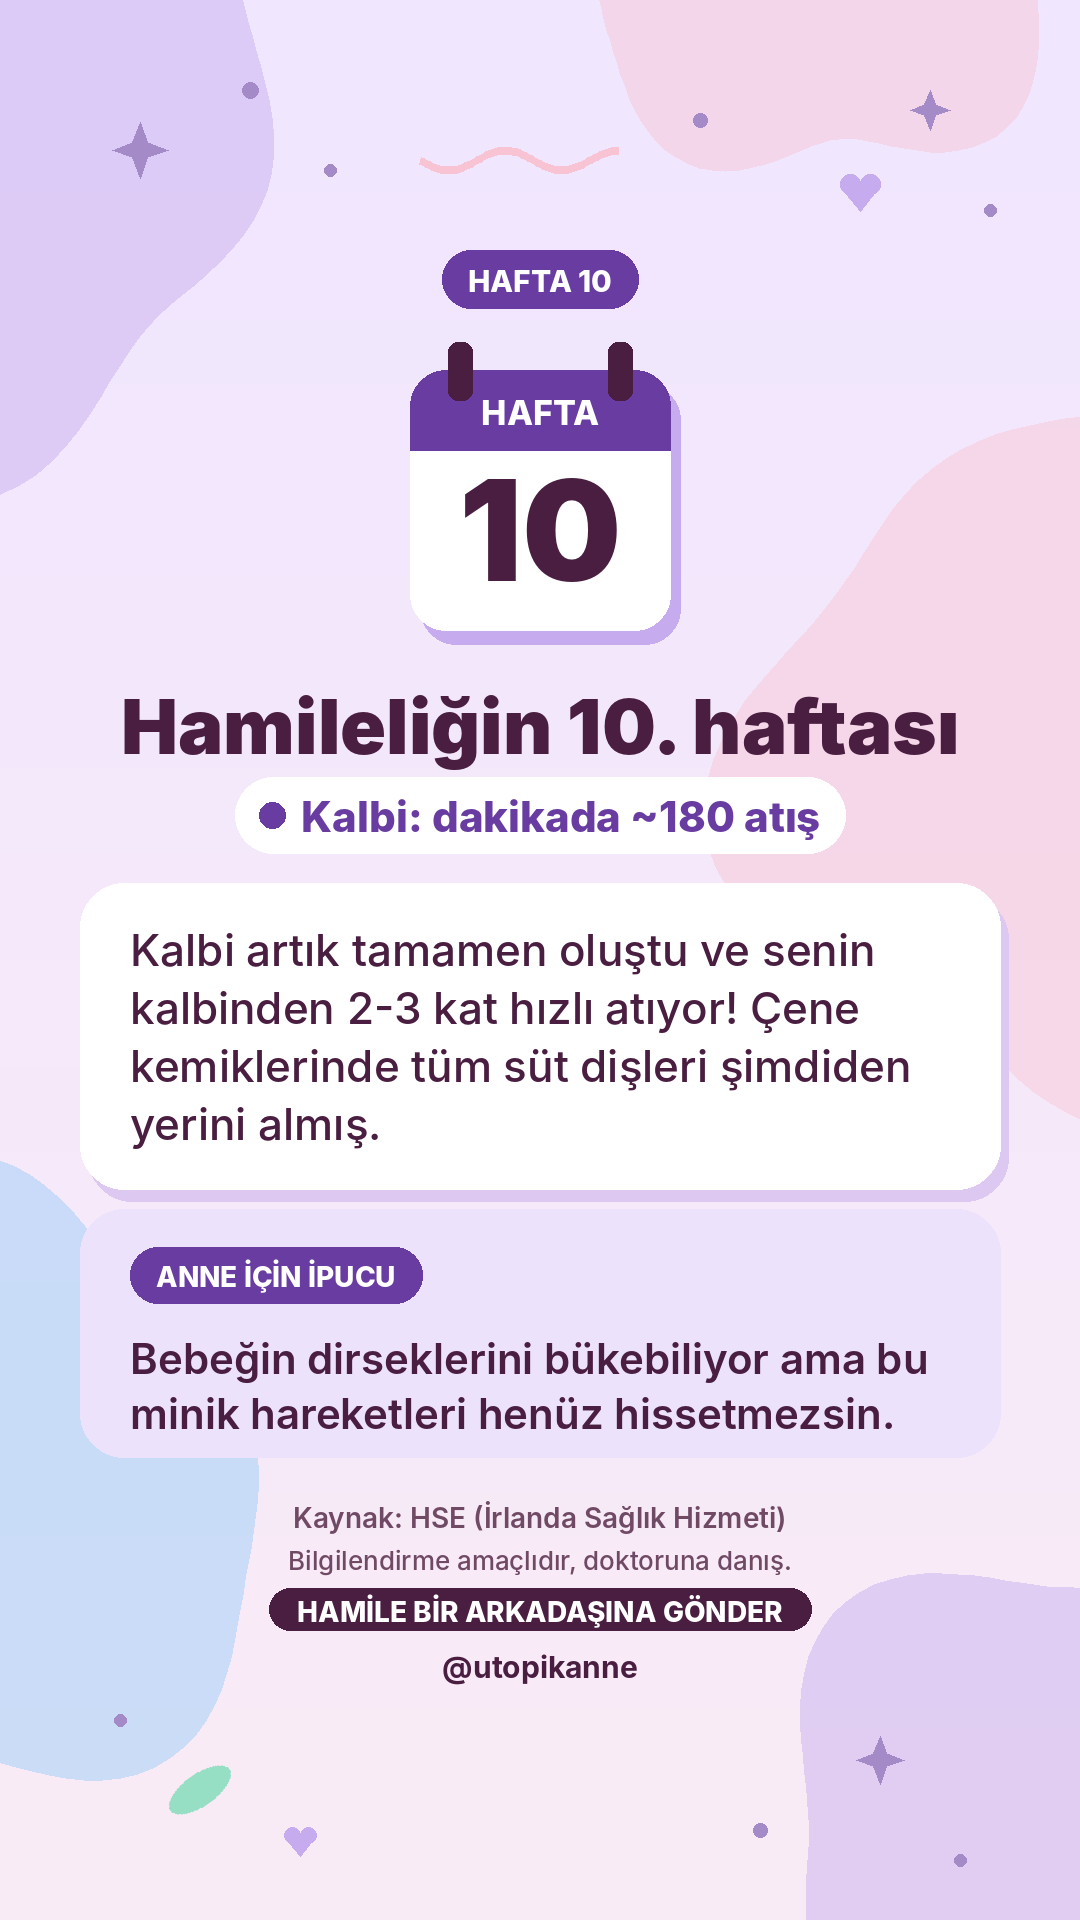
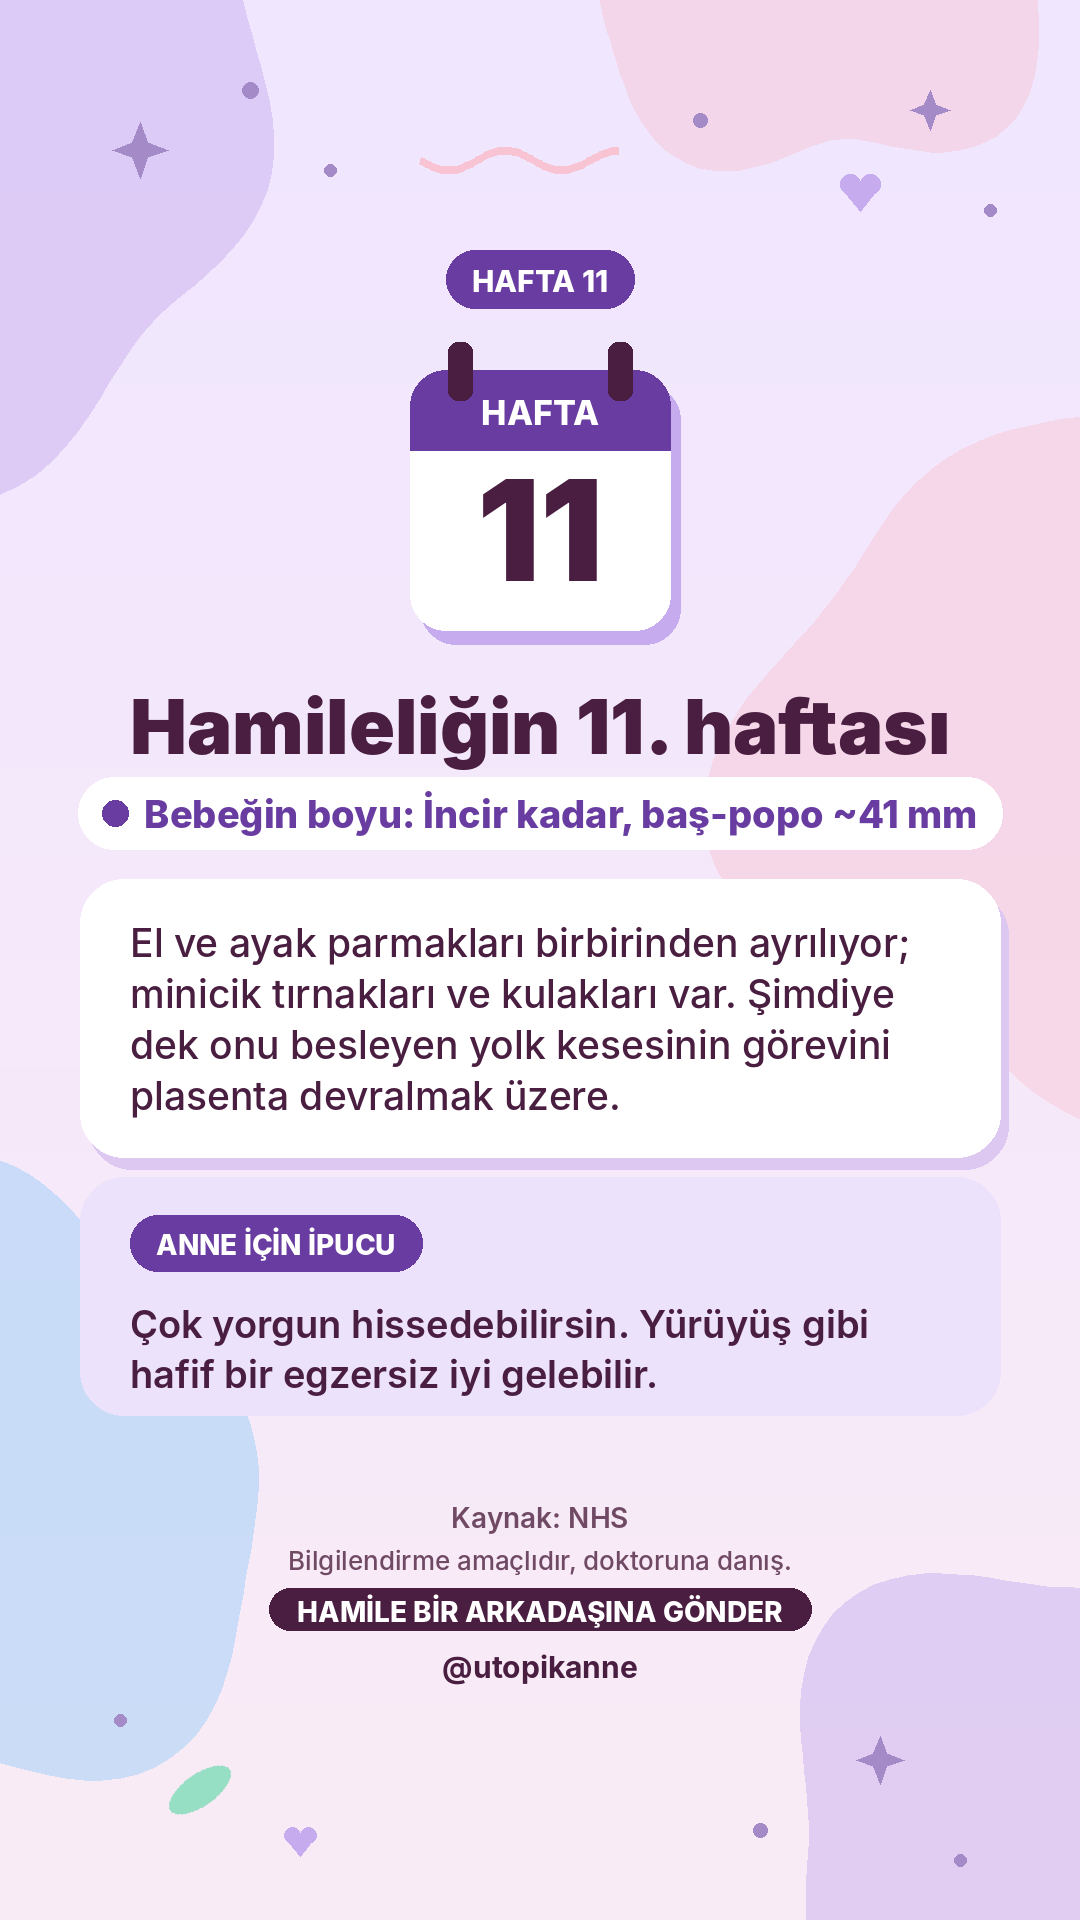
[utopikanne] 10 Kasım içerikleri: günaydın, test duyurusu, tarif #9, ek gıda tarifi #1 yumurta carousel, hamilelik #8, temizlik #5, iyi geceler

diff --git a/hesaplar/utopikanne/gun/2026-11-10/kaynaklar.md b/hesaplar/utopikanne/gun/2026-11-10/kaynaklar.md
@@ -1,0 +1,94 @@
+# Kaynak doğrulama, 2026-11-10 (@utopikanne)
+
+Doğrulama tarihi: 2026-11-08. Tüm alıntılar sayfaların bu tarihte okunan sürümünden alındı.
+
+## 1. Duyuru story (test): "Bebeğe yumurta 1 yaşından önce verilmez" → Yanlış
+- Kaynak: https://www.nhs.uk/baby/weaning-and-feeding/foods-to-avoid-giving-babies-and-young-children/
+- Alıntı: "Babies can have eggs from around 6 months."
+- Karar: **ONAY** (cevap "Yanlış" doğru).
+
+## 2. Yumurta carousel (2026-11-10_yumurta.json)
+
+### Kapak: "Yumurta için 1 yaşı beklemen gerekmiyor"
+- Kaynak: aynı NHS sayfası, "Babies can have eggs from around 6 months."
+- **ONAY**
+
+### Adım 1: "NHS'e göre bebekler yaklaşık 6. aydan itibaren yumurta yiyebilir... doktorunla konuşarak"
+- Kaynak: aynı. **ONAY**
+
+### Adım 2: AAP, "geciktirmenin alerjiyi önlediğine dair kanıt yok"
+- Kaynak: https://healthychildren.org/English/healthy-living/nutrition/Pages/when-to-introduce-egg-peanut-butter-and-other-common-food-allergens-to-your-baby-food-allergy-prevention-tips.aspx
+- Alıntı: "there is no evidence that delayed introduction of allergenic foods like egg, peanut, dairy and sesame prevents allergies."
+- **ONAY**
+
+### Adım 2: "NHS, 6-12 aydan sonraya ertelemenin riski artırabileceğini söylüyor."
+- Kaynak: https://www.nhs.uk/baby/weaning-and-feeding/food-allergies-in-babies-and-young-children/
+- Alıntı: "Evidence has shown that delaying the introduction of peanut and hen's eggs beyond 6 to 12 months may increase the risk"
+- Start for Life: "delaying introducing peanuts and hens' eggs after 6 to 12 months may increase the risk" (https://www.nhs.uk/start-for-life/baby/weaning/safe-weaning/food-allergies/)
+- **DÜZELT**: kaynak "alerji riski" diyor, metinde "riski" belirsiz kalıyor. Önerilen tam metin:
+  "AAP'ye göre yumurta gibi alerjen gıdaları geciktirmek alerjiyi önlemiyor. NHS, yumurtayı 6-12 aydan sonraya ertelemenin alerji riskini artırabileceğini söylüyor."
+
+### Tarif: yumurta parmakları
+- Kaynak: https://www.nhs.uk/start-for-life/baby/recipes-and-meal-ideas/egg-fingers/
+- Alıntılar: "Bring a pan of water to the boil. Gently place the egg into the pan, boil for 5 minutes." / "place the egg in a bowl of cold water to cool down (2 to 3 minutes)." / "peel the outer shell and slice the egg into quarters (4 fingers)." / "Offer your baby 2 egg fingers."
+- Türkiye kuralı (kırmızı aslan damgası yok): "Hens' eggs that do not have the red lion mark should be cooked until both the white and yolk are solid." (foods-to-avoid sayfası)
+- "Yumurtayı kaynayan suda haşla": **ONAY**
+- "Beyazı da sarısı da tamamen katılaşsın": **ONAY**. NHS tarifi 5 dakika diyor ama bu süre aslan damgalı yumurta için. Damgasız yumurtada "katılaşana dek" kuralı geçerli ve metin buna uyuyor. Türkiye için doğru.
+- "Soğuk suda 2-3 dakika soğut, soy": **ONAY**
+- "Dörde böl, 2 parmak ver": **ONAY**
+
+### Adım 3: "tek tek ve çok az miktarla tanıt... Sorun yoksa düzenli vermeye devam et"
+- Kaynak: NHS Start for Life food-allergies: "1 at a time and in very small amounts so that you can spot any reaction." / "keep offering those foods as part of your baby's usual diet to minimise the risk of allergy."
+- AAP: "Start with small tastes." / "keep in their diet routinely"
+- **ONAY**
+
+### Not: belirtiler ve 112
+- Kaynak (NHS): "swollen lips or face," "wheezing and coughing," "a red, itchy rash," "feeling or being sick," "tummy pain, diarrhoea or constipation". Ağır reaksiyon: "can cause breathing problems, a swollen throat or tongue". Start for Life: "wheezing and shortness of breath," "swollen lips and throat" … "Call 999 and get medical help immediately."
+- Kaşıntı, döküntü, dudakta şişlik, kusma, ishal: **ONAY**
+- Egzama ya da ailede alerji varsa önce doktora danışma: **ONAY** (Start for Life: "Talk to your GP or health visitor first.")
+- **DÜZELT**: acil belirtilere dil ve boğaz şişliği eklenmeli. Önerilen tam metin:
+  "Kaşıntı, döküntü, dudakta şişlik, kusma ya da ishal olursa doktoruna danış. Nefes darlığı, hırıltı ya da dil/boğazda şişlik varsa hemen 112'yi ara. Bebeğinde egzama ya da ailede alerji varsa başlamadan önce doktorunla konuş."
+
+### Son: "Çiğ ya da az pişmiş yumurta verme"
+- Kaynak: foods-to-avoid, damgasız yumurtada "cooked until both the white and yolk are solid". **ONAY** (Türkiye için)
+
+## 3. Günaydın story: "2 aylık bebekler sen konuşunca ya da gülümseyince sana gülümser"
+- Kaynak: https://www.cdc.gov/act-early/milestones-in-action/2-months.html
+- Alıntı: "Smiles when you talk to or smile at him"
+- **DÜZELT** (küçük): CDC kilometre taşları çoğu bebeğin yaptığı şeyleri anlatır, her bebek için kesin kural değildir. Önerilen tam metin:
+  "Çoğu 2 aylık bebek sen konuşunca ya da gülümseyince sana gülümser. Bol bol gülümse, gün güzel başlasın 🌼"
+
+## 4. İyi geceler story: gece loş, gündüz aydınlık
+- Kaynak: https://www.nhs.uk/baby/caring-for-a-newborn/helping-your-baby-to-sleep/
+- Alıntılar: "During the day, open curtains, play games and do not worry too much about everyday noises" / gece: "keep the lights down low," "not talk much and keep your voice quiet," "not play with your baby."
+- Işık, ses ve gündüz perde/oyun: **ONAY**
+- **DÜZELT** (küçük): "böyle öğrenir" kesin sonuç gibi okunuyor. NHS bunu öğretmeye yardım eden bir yol olarak anlatıyor. Önerilen tam metin:
+  "Gece beslemelerinde ışığı kıs, sesini alçalt. Gündüz perdeleri aç, oyun oyna. Gece ile gündüzü ayırmayı böyle öğrenmeye başlar. Tatlı rüyalar ✨"
+
+## 5. Tarif: avokado-muz ezmesi (icerik_2026-11-10.json)
+- Kaynak: https://www.nhs.uk/start-for-life/baby/recipes-and-meal-ideas/smashed-avocado-and-banana
+- Alıntılar: "6 months or older" / "1 medium ripe banana, chopped" / "1 ripe avocado" / "Blend or mash together with a fork until smooth." / "Cover any leftovers and store in the fridge. Banana and avocado brown quickly so try to eat it within the same day."
+- Yaş, malzemeler, adımlar, "üstünü kapat, buzdolabı, aynı gün": **ONAY**
+- "Yarım bırakılanı saklama, at." Kaynak: https://www.nhs.uk/start-for-life/baby/weaning/safe-weaning/storing-and-reheating-food/ "Throw away any half-eaten portions of food that's been previously prepared – never save and store or reheat them again."
+- **DÜZELT** (açıklık): bu cümle "kalanı sakla" ile çelişiyor gibi okunuyor. Önerilen tam metin:
+  "Muz ve avokado çabuk kararır; kalanın üstünü kapatıp buzdolabına koy, aynı gün tüket. Bebeğin yarım bıraktığı porsiyonu saklama, at."
+- "Tuz ve şeker ekleme. Yerken bebeğin yanından ayrılma.": **ONAY** (kesin kurallar)
+
+## 6. Hamilelik 11. hafta
+- Kaynak: https://www.nhs.uk/pregnancy/week-by-week/1-to-12/11-weeks/
+- Alıntılar: "around 41mm long from head to bottom, which is about the size of a fig." / "The fingers and toes are separating out." / "There are tiny fingernails and miniature ears." / "Your baby has previously been fed by a yolk sac, but a new organ called the placenta is about to take over." / "You may be feeling very tired at the moment, but gentle exercise such as walking could help you feel better."
+- **DÜZELT** (küçük): boy: NHS ölçüyü baştan popoya veriyor. Önerilen: "İncir kadar, baş-popo ~41 mm"
+- Bilgi metni: **ONAY** (isteğe bağlı: "Parmakları" yerine "El ve ayak parmakları", çünkü kaynakta "fingers and toes" geçiyor)
+- İpucu: **ONAY**
+
+## 7. Temizlik: bulaşık süngeri
+- Kaynak: https://www.ars.usda.gov/news-events/news/research-news/2007/best-ways-to-clean-kitchen-sponges/
+- Alıntılar: "heated in a microwave for one minute" / "Microwaving sponges killed 99.99999 percent of bacteria" / "dishwashing killed 99.9998 percent of bacteria" / "operating with a drying cycle"
+- Kaynak: https://brunswick.ces.ncsu.edu/2025/10/risky-or-not-microwaving-your-sponge
+- Alıntılar: kuru sünger "may cause a fire inside the microwave" / çelik telli sünger "might cause microwave arching or sparking" / "There is also a risk of getting burnt if a water-filled sponge is heated too long." / "Replace your sponge often."
+- Islak, 1 dakika: **ONAY**
+- Kurutmalı bulaşık makinesi: **ONAY**
+- "neredeyse tamamını": **ONAY**
+- "sık sık değiştir": **ONAY**
+- **DÜZELT** (uyarı): metal süngerde risk kıvılcım, kuru süngerde yangın. Önerilen tam metin:
+  "Kuru sünger alev alabilir, metal telli sünger kıvılcım çıkarır; mikrodalgaya koyma. Çıkınca çok sıcaktır, elini yakma."

diff --git a/hesaplar/utopikanne/ders_notlari.md b/hesaplar/utopikanne/ders_notlari.md
@@ -14,3 +14,4 @@
 - 2026-11-06 (gece turu, Doğrulayıcı): Oyuncak temizliği için NHS/CDC/AAP'de ev yöntemi sayfası yok (yalnız NYC sağlık dairesi) → izinli kaynak yok, yayınlanmadı; yerine NHS "children's food safety and hygiene" ile mutfak hijyeni. NHS banyo: derece yok ("vücut sıcaklığı gibi"), yalnız dirsek; "çok az suda boğulabilir" NHS banyo sayfasında yok. Şapka bilgisi NHS giydirme sayfasında ("içeri girince çıkar"), güvenli uyku sayfasında değil.
 - 2026-11-07 (akşam turu, Doğrulayıcı): FSIS'te karbonat ölçüsü (1 yk/1 L) yok, yalnız "sıcak su ve karbonat"; aktif kömür FSIS koku listesinde yok (karbonat, kahve telvesi, gazete, vanilya var); FSA tahta için "ılık sabunlu su" der, "ayrı tahta" okunabilen sayfalarda yok; NHS püreyi sütle açmayı yalnız tahıl için söyler; NHS tereyağından söz etmez → "tuz ve şeker ekleme". KK: "Yarım kalanı sakla, at." çelişkili okunuyordu → "Yarım bırakılanı saklama, at." Carousel rozeti artık seri metnini aynen yazar ("Ev temizliği #1"); son slayt "Kaydet, lazım olur / Bir anneye gönder".
 - 2026-11-08 (sabah nöbeti): v5.1 "her gün 15:00 hamilelik" dedi ama seri 9 Kasım'dan başlatıldı → 8 Kasım (v5.1'in ilk günü) 15:00 boştu. Kural: yeni bir slot kuralı eklendiğinde yürürlük gününün kuyruğu da aynı turda doldurulur. Düzeltme: hazır 9./10. hafta görselleri 8/9 Kasım'a kaydırıldı; 10 Kasım 15:00 (11. hafta, NHS) gece turuna kaldı (sabah turunda NHS sayfasına erişilemedi).
+- 2026-11-08 (gece turu, Doğrulayıcı/KK): CDC dönüm noktaları "çoğu bebek" diye yazılmalı; NHS uzunluk "baş-popo"; NC State: kuru sünger yangın, metal telli kıvılcım. Carousel kapağı aynı günün test cevabını vermesin (soru biçiminde kanca). KK hamilelik kartında "#N" görünmüyor, duyurudaki A/B harf daireleri buton gibi algılanabilir dedi → şablon değişikliği ana sohbete öneri.

diff --git a/hesaplar/utopikanne/strateji.md b/hesaplar/utopikanne/strateji.md
@@ -87,7 +87,7 @@ Veri: Melike'nin son 10 Reels'i 1.218–3.739 kişiye ulaşıyor ama net takipç
 | EV HAP BİLGİ | 0 |
 | MUTFAK TÜYOSU | 2 (8 Kasım: #1 buzdolabı 9 Kasım, #2 mikrodalga reels 10 Kasım) |
 | BEBEK BAKIMI | 2 (#1 bebek banyosu 8 Kasım; #2 emekleme ve uyku, 13 Kasım carousel + deneme Reels — ana sohbet hazırladı) |
-| EK GIDA TARİFİ (carousel) | 0 |
+| EK GIDA TARİFİ (carousel) | 1 (#1 yumurta, 10 Kasım) |
 | HAMİLELİKTE BİLMEN GEREKENLER | 0 |
 | ÇAMAŞIR & BEBEK EŞYASI | 0 |
 | PRATİK HAYAT | 0 |
@@ -137,3 +137,4 @@ Hatırlatmalarda: tarif hikâyesi → "Tarifler" (Ek Gıda DEĞİL; o ürünler 
 - Deneme Reels HER GÜN 13:00 (genelde o günün carousel'inden `--reels`; aynı konuyu iki kez deneme yapma).
 - 8 Kasım: 17:30 deneme Reels (mikrodalga, Salı'dan alındı). 9 Kasım 13:00 buzdolabı, 10 Kasım 13:00 bebek banyosu, 13 Kasım 13:00 emekleme-uyku hazır.
 - 2 hafta sonra (22 Kasım) Analist: günlük denemenin takipçi/erişim etkisi; takipçi düşüşü ya da erişim/gönderi çöküşü varsa haftada 4'e indirmeyi öner.
+- 8 Kasım gece turu: 10 Kasım tamamlandı (günaydın, 10:00 TEST duyurusu, tarif #9, 11:30 EK GIDA TARİFİ #1 yumurta, hamilelik #8 = 11. hafta, temizlik #5, iyi geceler). Not: 9./10. hafta bir gün öne kaydırıldığı için hamilelik numarası 10 Kasım #8 = 11. hafta; 11 Kasım #9 = 12. hafta (prompttaki "11 Kasım #8" bir gün kaydı).
